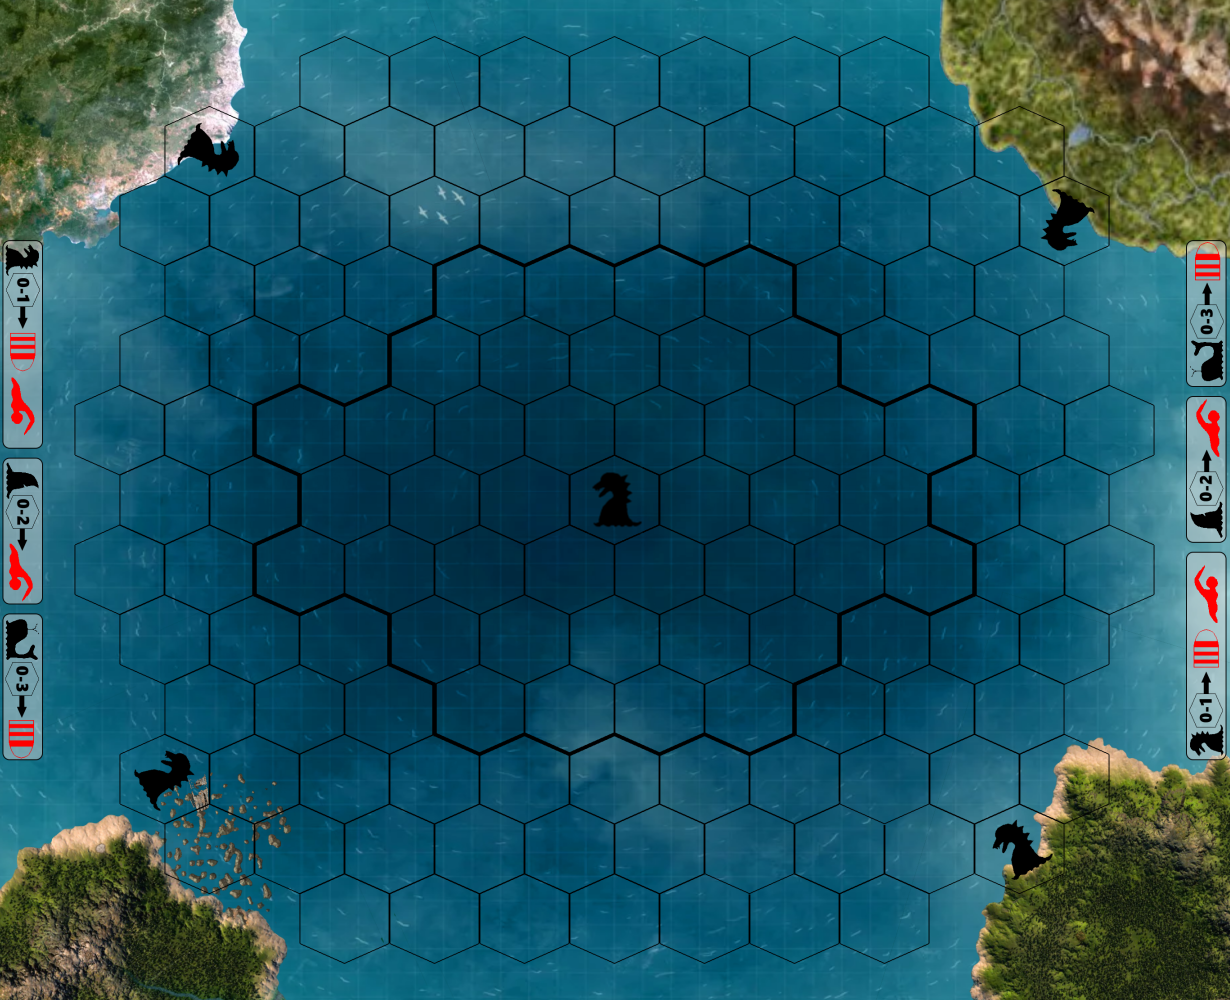
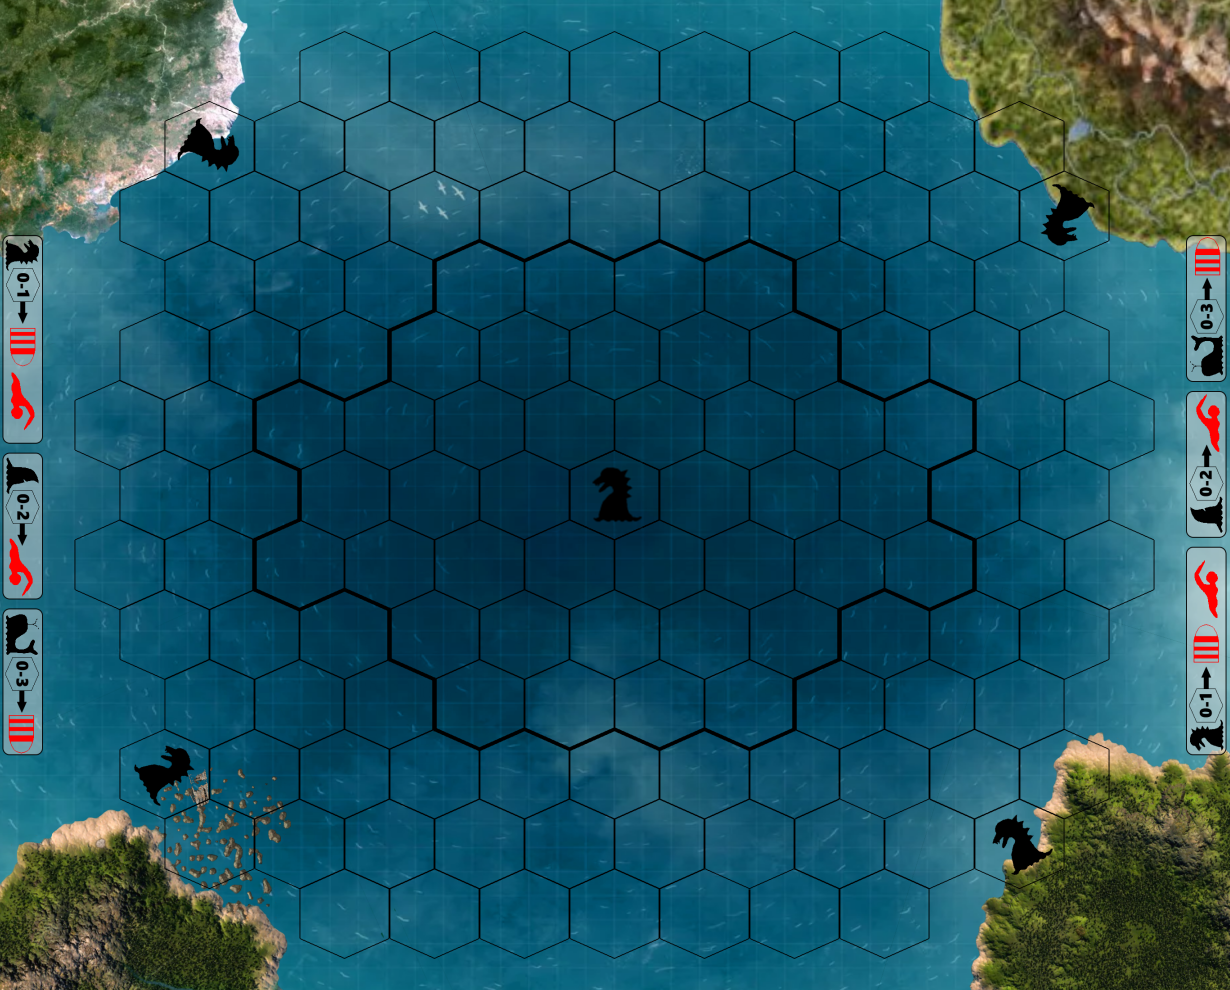
BOOM HIGHLIGHT

diff --git a/the-island/src/main/java/fr/mcstudio/board/Board.java b/the-island/src/main/java/fr/mcstudio/board/Board.java
@@ -3,6 +3,7 @@ package fr.mcstudio.board;
 import java.awt.*;
 import java.awt.event.MouseEvent;
 import java.awt.event.MouseListener;
+import java.awt.event.MouseMotionListener;
 import java.util.ArrayList;
 import java.util.List;
 import java.util.Random;
@@ -67,9 +68,11 @@ public class Board extends JLabel{
 						&& (i != 12 || j != 1) 
 						&& (i != 0 || j != 9) 
 						&& (i != 12 || j != 9) 
-						&& (i != 0 || j != 10)) 
+						&& (i != 0 || j != 10
+						)&& (i != 12 || j != 10)
+						&& j != 11) 
 						|| (i == 5 && j == 11) 
-						|| (i == 7 || j == 11)){
+						|| (i == 7 && j == 11)){
 					
 					if((((i > 2 && j > 3 && i < 10 && j < 8) 
 							|| (i > 4 && j > 1 && i < 8 && j < 10 
@@ -141,6 +144,7 @@ public class Board extends JLabel{
 		}
 		
 
+
 		//plateauPane.addMouseListener((e) -> getClickedPosition(e));
 		
 		boardPane.addMouseListener(new MouseListener() {
@@ -150,7 +154,7 @@ public class Board extends JLabel{
 					for (int j = 0; j < 12; j++) {
 						if(hexagons[i][j].getTile() != null)
 							if(hexagons[i][j].isInHexagonfloat(resolution, e.getX(), e.getY())) {
-								System.out.println("Yay ! " + hexagons[i][j].getLigne() + " " + hexagons[i][j].getColonne());
+								System.out.println("Yay ! " + hexagons[i][j].getLine() + " " + hexagons[i][j].getColumn());
 								//tile.applyEffect(hexagon);
 							}
 					}
@@ -166,6 +170,28 @@ public class Board extends JLabel{
 
 			public void mouseExited(MouseEvent e) {}
         });
+		
+		boardPane.addMouseMotionListener(new MouseMotionListener() {
+
+			@Override
+			public void mouseDragged(MouseEvent e) {}
+
+			@Override
+			public void mouseMoved(MouseEvent e) {
+				for(int i = 0; i < 13; i ++) {
+					for (int j = 0; j < 12; j++) {
+						if(hexagons[i][j].getTile() != null) {
+							if(hexagons[i][j].isInHexagonfloat(resolution, e.getX(), e.getY())) {
+								hexagons[i][j].setHighlight(true);
+							} else {
+								hexagons[i][j].setHighlight(false);
+							}
+						}
+					}
+				}
+			}
+			
+		});
 		
 	}	
 	

diff --git a/the-island/src/main/java/fr/mcstudio/board/Hexagon.java b/the-island/src/main/java/fr/mcstudio/board/Hexagon.java
@@ -1,8 +1,11 @@
 package fr.mcstudio.board;
 
+import java.awt.Color;
 import java.util.ArrayList;
 import java.util.List;
 
+import javax.swing.ImageIcon;
+import javax.swing.JLabel;
 import javax.swing.JLayeredPane;
 
 import fr.mcstudio.enums.HexagonType;
@@ -26,15 +29,21 @@ public class Hexagon{
      */
 	
 	Hexagon hexagon = this;
-	public Hexagon(JLayeredPane boardPane, final int ligne, final int colonne) {
-    	this.ligne = ligne;
-    	this.colonne = colonne;
+	public Hexagon(JLayeredPane boardPane, final int line, final int column) {
+    	this.line = line;
+    	this.column = column;
+
+		highlightLabel.setIcon(new ImageIcon(Board.class.getResource("/HexagonBlanc.png")));
+		highlightLabel.setBackground( new Color(0, 0, 0, 50) );
+		boardPane.setLayer(highlightLabel, 3);
+		boardPane.add(highlightLabel);
+		
 
     }
 
-	private int ligne;
+	private int line;
     
-	private int colonne;
+	private int column;
 	
     private Tile tile;
 
@@ -42,6 +51,11 @@ public class Hexagon{
      * 
      */
     private HexagonType type;
+    
+    private boolean highlight;
+    
+
+    private JLabel highlightLabel = new JLabel();
 
     /**
      * 
@@ -279,14 +293,6 @@ public class Hexagon{
     	
 		
 	}
-	
-	public int getLigne() {
-		return ligne;
-	}
-
-	public int getColonne() {
-		return colonne;
-	}
 
 	public boolean isInDemiPlan(float ax, float ay, float bx, float by, float clickx, float clicky) {
 		float d = (bx - ax)*(clicky - ay) - (by - ay)*(clickx - ax);
@@ -295,5 +301,29 @@ public class Hexagon{
 			return true;
 		else 
 			return false;
+	}
+	
+	public int getLine() {
+		return line;
+	}
+
+	public int getColumn() {
+		return column;
+	}
+
+	public boolean isHighlight() {
+		return highlight;
+	}
+
+	public void setHighlight(boolean highlight) {
+		this.highlight = highlight;
+		if (highlight) {
+			this.highlightLabel.setBounds(tile.getX(), tile.getY(), 90, 90);
+
+			this.highlightLabel.setVisible(true);
+		} else {
+
+			this.highlightLabel.setVisible(false);
+		}
 	}
 }

diff --git a/the-island/src/main/java/fr/mcstudio/Main.java b/the-island/src/main/java/fr/mcstudio/Main.java
@@ -21,7 +21,7 @@ public class Main extends JFrame {
 	private ActionInfo actionInfo;
 	private JPanel contentPane;
 
-	int resolution = 70;
+	int resolution = 90;
 
 	public Main() {
 		super("The Island");
